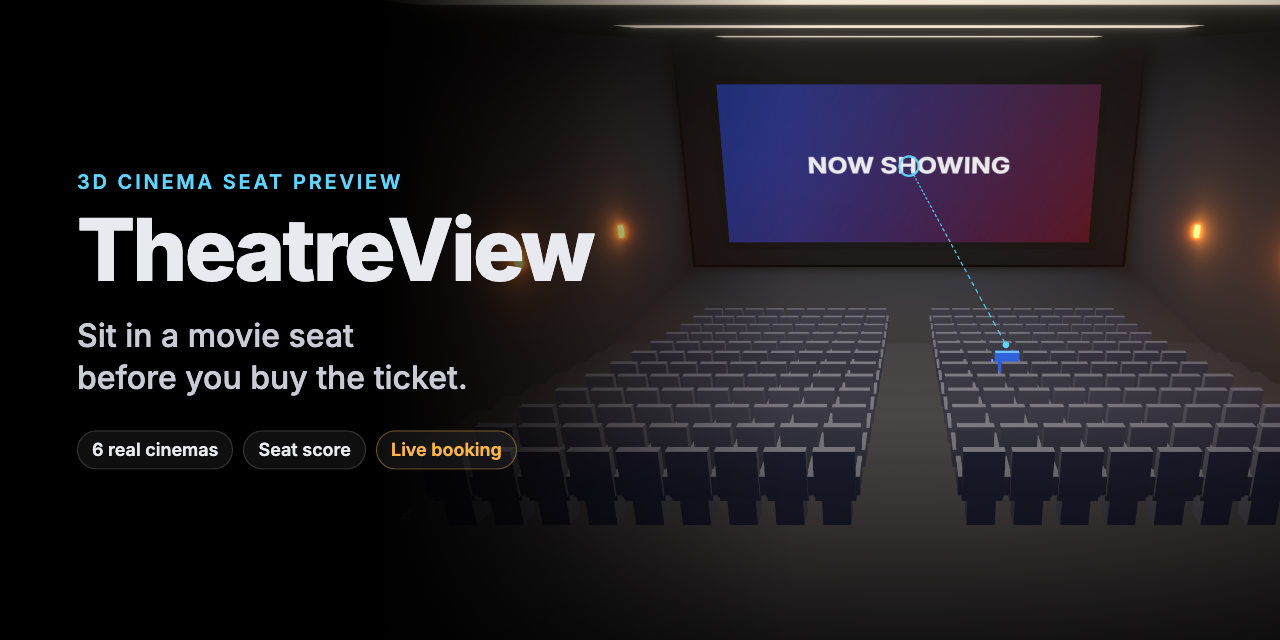
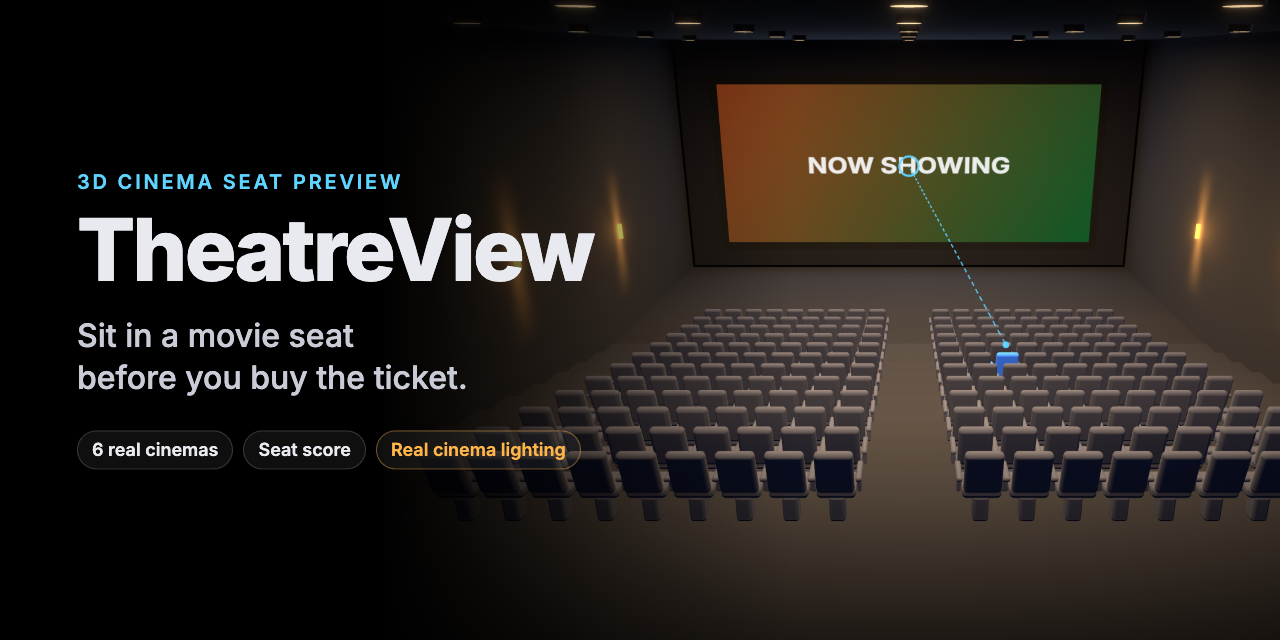
Bring the README up to date and add new screenshots
The README now has the live link, the right phase status, the full
tech stack, how to turn booking on, how the site is put online, the
known problems, and credits for the movies and the font. The
screenshots and the link preview picture show the new chairs and
lights.

diff --git a/README.md b/README.md
@@ -4,6 +4,8 @@
 
 **Sit in a movie seat before you buy the ticket.**
 
+**▶ Try it live: [theatre-view.vercel.app](https://theatre-view.vercel.app)**
+
 Pick a seat in a 3D movie theater. The camera flies into that seat. You see the screen just like
 you would from there. Then you know if it is a good seat.
 
@@ -29,6 +31,10 @@ block you? TheatreView lets you find out first.
 - **Pull the light cord.** A string hangs at the top right. Pull it down to make the room
   brighter. Pull again to change it. There is also a slider.
 - **Curved and flat screens.** Some theaters have a curved screen, so the app bends it too.
+- **Lit like a real cinema.** Round lights in the ceiling with a faint glow under each one, warm lamps
+  on the walls, and small amber lights on every aisle step. They all dim together.
+- **Fits your screen.** The starting view moves as close as it can so the whole theater fills your
+  window, on a laptop or a phone.
 - **Pick a movie.** Under "Now showing" you can pick from a list: Spider-Man: No Way Home and
   Spider-Man: Brand New Day (trailers and scenes), plus free Blender movies. The Blender movies play
   in sharp 1080p straight on the 3D screen, with no YouTube buttons. Or paste your own
@@ -62,14 +68,20 @@ Other commands:
 
 The app works without this. You only need it for holding and booking seats.
 
+Booking is built but switched off on the live site for now. To turn it on:
+
 1. Make a free project at [supabase.com](https://supabase.com).
 2. In the project, open **Authentication → Sign In / Providers** and turn on **Allow anonymous sign-ins**.
-3. Open the **SQL Editor** and run these two files, in this order:
+3. Open the **SQL Editor** and run these files, in this order:
    - `supabase/migrations/20261014000000_phase4_booking.sql`
+   - `supabase/migrations/20261014010000_show_movies.sql`
    - `supabase/seed.sql`
 4. Copy `.env.example` to `.env.local` and fill in your project URL and publishable key
    (from **Project Settings → API Keys**).
-5. Run `npm run dev` again.
+5. In `src/config.ts`, change `BOOKING_ENABLED` to `true`.
+6. Run `npm run dev` again.
+7. For the live site, add the same two keys in **Vercel → Project → Settings → Environment Variables**
+   and deploy again.
 
 ## How to use it
 
@@ -88,9 +100,9 @@ The app works without this. You only need it for holding and booking seats.
 | Pick a movie under "Now showing" | That movie plays on the big screen |
 | Paste a YouTube link and press Play | Your own video plays on the big screen |
 | Pause / Sound on / Stop | Controls the movie (it starts muted) |
-| Pick a showtime (with booking on) | The seat map shows which seats are taken for that show |
-| Select | Holds the seat for you for 5 minutes (or just marks it, with booking off) |
-| Book seat | Books the seat you are holding |
+| Select | Marks the seat as yours (with booking on, it holds the seat for 5 minutes) |
+| Pick a showtime *(booking on only)* | The seat map shows which seats are taken for that show |
+| Book seat *(booking on only)* | Books the seat you are holding |
 
 ## How it works
 
@@ -104,7 +116,8 @@ Think of the app like a restaurant.
 | The fridge | **Database** | Stores everything so nothing gets lost |
 | Delivery trucks | **Outside services** | Movie posters, payments, AI help |
 
-The frontend is done. The backend is being built now, in Phase 4.
+The frontend is done and live. The backend is built and tested, but switched off on the live site until
+booking launches.
 
 ```
 You (browser)
@@ -113,7 +126,7 @@ You (browser)
 Frontend: the 3D theater  (React + three.js)
     |   "Is E6 free?"  "Book E6 for me"
     v
-API + Backend + Database  (Supabase, Phase 4: building now)
+API + Backend + Database  (Supabase, built, switched off for now)
     |
     v
 Outside services  (movie posters, payments, AI, coming in Phase 5)
@@ -125,13 +138,16 @@ Outside services  (movie posters, payments, AI, coming in Phase 5)
 |---|---|---|
 | Building the app | [Vite](https://vite.dev) + [React](https://react.dev) + [TypeScript](https://www.typescriptlang.org) | Fast to start, and TypeScript catches mistakes early |
 | 3D | [three.js](https://threejs.org) + [React Three Fiber](https://r3f.docs.pmnd.rs) | The most used way to make 3D on the web, written the React way |
-| 3D helpers | [drei](https://github.com/pmndrs/drei) | Ready-made pieces: camera controls, text, lines |
-| Camera moves | [camera-controls](https://github.com/yomotsu/camera-controls) | Smooth fly-to moves that feel heavy, not jumpy |
+| 3D helpers | [drei](https://github.com/pmndrs/drei) | Ready-made pieces, like the dashed line from seat to screen |
+| Camera moves | [camera-controls](https://github.com/yomotsu/camera-controls) | Dragging and turning your head, plus my own curved flights in and out of seats |
+| YouTube on the 3D screen | three.js `CSS3DRenderer` | Places the real YouTube player on the screen, and only moves it when the camera moves |
+| Movie streams | [hls.js](https://github.com/video-dev/hls.js) | Plays HLS streams in sharp quality as a real 3D picture; loads only when you pick a stream |
 | Glow | [@react-three/postprocessing](https://github.com/pmndrs/react-postprocessing) | Makes the screen and lamps glow, and darkens the edges |
 | Smooth fades | [maath](https://github.com/pmndrs/maath) | Fades the lights in and out like a real theater |
 | Shared memory | [zustand](https://github.com/pmndrs/zustand) | One small place that remembers the seat, the theater and the lights |
-| Backend | [Supabase](https://supabase.com) (Postgres) | Database, live updates and sign-in in one place |
-| Hosting (later) | [Vercel](https://vercel.com) | Puts the app online every time I push code |
+| Font | [Inter](https://rsms.me/inter/) via [Fontsource](https://fontsource.org) | One font everywhere, shipped with the app instead of from a font website |
+| Backend | [Supabase](https://supabase.com) (Postgres, Realtime, Auth) | Database, safe booking steps, live seat updates and guest sign-in in one place |
+| Hosting | [Vercel](https://vercel.com) | Live now; puts the app online every time I push code |
 
 ## The phases
 
@@ -173,20 +189,25 @@ I am building TheatreView in **6 phases**. Click a phase to see the details.
 </details>
 
 <details>
-<summary><b>Phase 3: Make it feel real</b> 🔜 Next</summary>
+<summary><b>Phase 3: Make it feel real</b> 🚧 Mostly done</summary>
 
 <br>
 
-- ✅ Play a real movie on the screen: paste a YouTube link, or a direct video file link.
+- ✅ Play a real movie on the screen: a movie list (Spider-Man trailers and scenes, free Blender
+  films), your own YouTube link, or a stream link.
+- ✅ Sharp 1080p streams painted straight onto the 3D screen, with no YouTube buttons.
+- ✅ Better chair model: padded seat, leaning backrest, armrests, rounded edges.
+- ✅ Lit like a real cinema: ceiling downlights, wall sconces, aisle step lights.
+- ✅ The starting view fits your screen, and a loading screen shows until the room is ready.
+- ✅ Smooth, curved camera flights in and out of seats.
 - The screen's light changes color with the movie.
 - Sound that comes from the screen, so it is quieter in the back rows.
-- ✅ Better chair model: padded seat, leaning backrest, armrests, rounded edges.
 - Touch controls for phones, a full-screen button, and a calm mode for people who do not like motion.
 
 </details>
 
 <details>
-<summary><b>Phase 4: Backend and API</b> 🚧 Building now</summary>
+<summary><b>Phase 4: Backend and API</b> ✅ Built, switched off for now</summary>
 
 <br>
 
@@ -194,7 +215,7 @@ I am building TheatreView in **6 phases**. Click a phase to see the details.
 Many people can open the same show at the same time. When one person picks a seat, everyone else
 sees it change right away, and nobody can ever get the same seat twice.
 
-What I am building:
+What is built:
 
 1. **A database** (Supabase) with four lists: theaters, showtimes, seat holds and bookings.
 2. **A showtime picker.** Each theater has a few showtimes. You pick one before you pick a seat,
@@ -208,12 +229,12 @@ What I am building:
 6. **No sign-up needed.** You get a quiet guest account the first time you hold a seat.
 7. **Safe by design.** The browser can only ask the database to do things. The database checks
    every request, so a seat can never be booked twice, even if two people click at the same time.
-8. **Still works without a backend.** If you run the app without Supabase keys, you can still
-   preview every seat. Only booking turns off.
+8. **Ready for many people.** Browsers spread out their database requests and try again if it is busy.
+9. **Still works without a backend.** Without booking, you can still preview every seat.
 
-What is done so far: the database plan, the safe hold and book steps, the showtime picker, the timer
-and the live seat colors. What is left: connect it to a real Supabase project and test it with two
-browsers at once.
+Status: the database is live and the safe hold and book steps were tested with two pretend people at
+once. Booking is switched off on the live site (`BOOKING_ENABLED` in `src/config.ts`) until guest
+sign-in is turned on in Supabase and the keys are added to Vercel.
 
 </details>
 
@@ -230,13 +251,15 @@ browsers at once.
 </details>
 
 <details>
-<summary><b>Phase 6: Put it online</b> ⏳ Planned</summary>
+<summary><b>Phase 6: Put it online</b> 🚧 Mostly done</summary>
 
 <br>
 
-- Put the app on Vercel so anyone can use it.
-- Make it load faster: split the 3D code and shrink the pictures.
-- Goal: smooth on a normal laptop, ready to use in under 3 seconds.
+- ✅ Live on Vercel: [theatre-view.vercel.app](https://theatre-view.vercel.app).
+- ✅ Faster loading: Lighthouse phone score went from 39 to between 52 and 78.
+- ✅ Built files are cached for a year; a daily job keeps the database awake.
+- ✅ Tested with 100 people at once.
+- Split the big 3D code into smaller pieces.
 - Count which seats people look at and which seats they buy.
 - Make a demo video.
 
@@ -279,15 +302,17 @@ and about 23 degrees up or down, like a real person in a chair.
 </details>
 
 <details>
-<summary><b>The camera flies in two steps</b></summary>
+<summary><b>How the camera flies into a seat</b></summary>
 
 <br>
 
-First the camera flies to the seat while looking at the screen. Then it quietly switches to
-"head turning" mode. If it did both at once, the flight looked twisty and strange.
+The camera follows a smooth curve: it comes down onto the seat from above, looking at the screen
+the whole way. When it lands, it quietly switches to "head turning" mode, so dragging turns your head
+instead of swinging around the room. Leaving a seat is the same curve in reverse: up out of the row
+first, then back.
 
 Once you are sitting, moving to the next seat with the arrow keys is different: the camera just
-slides straight across, still looking at the screen. That takes about a quarter of a second, so
+slides straight across, still looking at the screen. That takes about a third of a second, so
 hopping from seat to seat feels quick, like leaning over to the next chair.
 
 </details>
@@ -521,12 +546,12 @@ What I changed:
 - **Load things later.** The YouTube player waits until the room is ready. The booking code loads only
   when it is needed.
 - **No extra downloads from other sites.** The row letters used to download a font from another
-  website. Now they are drawn with the computer's own font.
+  website. Now they are drawn with the app's own font (Inter, shipped with the app).
 - **Remember files.** Built files have a fingerprint in their name, so browsers can keep them for a
   year and not download them again.
-- **Bigger YouTube player.** YouTube picks the picture quality from how big its player is. The player
-  is now 1080p-sized, so YouTube can choose 1080p when the internet is fast enough. (YouTube no longer
-  lets websites force a quality.)
+- **YouTube quality.** YouTube picks the picture quality from how big its player is and how fast the
+  internet is. Websites cannot force a quality anymore. I tried a bigger player, but it made camera
+  moves feel heavy, so it is back to 1280×720, which still allows HD on sharp laptop screens.
 
 After these changes the score went up to between 52 and 78 (it changes from run to run), and the busy
 time dropped from about 17 seconds to between 0.2 and 4 seconds.
@@ -678,7 +703,7 @@ I measured what happened between your click and the camera moving. Three things 
 3. **A slow, floaty ease.** The flight now settles faster.
 
 Now the click is noticed in under 20 milliseconds, the camera starts moving right away, and it reaches
-the seat in about a second with no stalls.
+the seat in about 0.7 seconds with no stalls.
 
 </details>
 
@@ -757,6 +782,8 @@ src/
   movies.ts           the movie list under "Now showing" (YouTube links and HLS streams)
   App.tsx             puts the 3D room, the buttons and the loading screen on the page
   config.ts           switches for features that are built but not live yet
+  fonts.ts            loads the Inter font for the whole app
+  hls-light.d.ts      type notes for the small version of the stream player
   scene/
     Theater.tsx       the screen (flat or curved), the movie on it, floor, walls, row letters
     Seats.tsx         all the seats, mouse-over and click
@@ -775,14 +802,47 @@ supabase/
   seed.sql            demo theaters and showtimes
 docs/
   CINEMA_RESEARCH.md  real theater facts, design rules, and links
+  images/             screenshots and the link preview picture
+public/
+  og-image.png        the picture shown when someone shares the link
+.github/workflows/
+  keep-warm.yml       daily job that keeps the free database awake
+vercel.json           tells Vercel to cache built files for a year
+.env.example          the two Supabase keys to fill in for booking
 PLAN.md               the full product plan
 ```
 
+## Putting it online
+
+The app is only files, so there is no server to run or wake up.
+
+- **Hosting:** [Vercel](https://vercel.com) builds the app with `npm run build` every time code is pushed
+  to `main`, and serves the files from computers close to each visitor.
+- **Caching:** `vercel.json` tells browsers they may keep the built files for a year. Each file has a
+  fingerprint in its name, so a new version always gets a new name.
+- **Environment variables** (only needed for booking):
+
+  | Name | What it is |
+  |---|---|
+  | `VITE_SUPABASE_URL` | Your Supabase project address |
+  | `VITE_SUPABASE_PUBLISHABLE_KEY` | Your Supabase publishable key (safe to show in the browser) |
+
+- **Database:** Supabase, in Mumbai. The free plan sleeps after a week with no visitors, so
+  `.github/workflows/keep-warm.yml` pings it once a day. (GitHub stops scheduled jobs after 60 days with
+  no activity in the repo.)
+
 ## Known problems
 
-- The 3D code is still one big file (about 470 KB zipped). The booking code is already split out.
+- The 3D code is still one big file (about 470 KB zipped). The booking and stream player code are
+  already split out.
 - YouTube shows its own little buttons and title at the start of a video. The rules for using
   YouTube's player say websites must not cover them up.
+- YouTube picks the picture quality by itself. Websites cannot force 1080p.
+- The free Blender films stream from public test servers (Mux and Unified Streaming). They can be slow
+  or go away. A real launch should use a paid video host.
+- Booking is switched off on the live site for now.
+- Supabase's free plan allows 200 live connections and 100 live messages a second. Busy ticket sales
+  with booking on would need the Pro plan.
 
 ## Help make it better
 
@@ -795,6 +855,20 @@ Ideas and fixes are welcome.
 
 If you find a bug, please open an issue and tell me what you clicked and what you saw.
 
+## Credits and licenses
+
+- **Big Buck Bunny, Sintel and Tears of Steel** © Blender Foundation |
+  [www.blender.org](https://www.blender.org), shared under
+  [Creative Commons Attribution 3.0](https://creativecommons.org/licenses/by/3.0/). The streams are
+  provided by [Mux](https://www.mux.com) and [Unified Streaming](https://www.unified-streaming.com) test servers.
+- **Spider-Man: No Way Home** and **Spider-Man: Brand New Day** trailers and clips belong to Sony
+  Pictures and Marvel. They are not copied or stored here; they play from YouTube in YouTube's own
+  player, from the channels named in `src/movies.ts`.
+- **Inter** font by Rasmus Andersson, under the
+  [SIL Open Font License](https://github.com/rsms/inter/blob/master/LICENSE.txt).
+- Cinema screen sizes and design rules come from the sources listed in
+  [docs/CINEMA_RESEARCH.md](docs/CINEMA_RESEARCH.md).
+
 ## Thank you
 
 - The LinkedIn post that gave me this idea.
@@ -805,4 +879,5 @@ If you find a bug, please open an issue and tell me what you clicked and what yo
 
 ## License
 
-[MIT](LICENSE). You can use it, change it and share it. Just keep the license file.
+[MIT](LICENSE) for the code. You can use it, change it and share it. Just keep the license file.
+The movies and the font keep their own licenses (see Credits and licenses).
